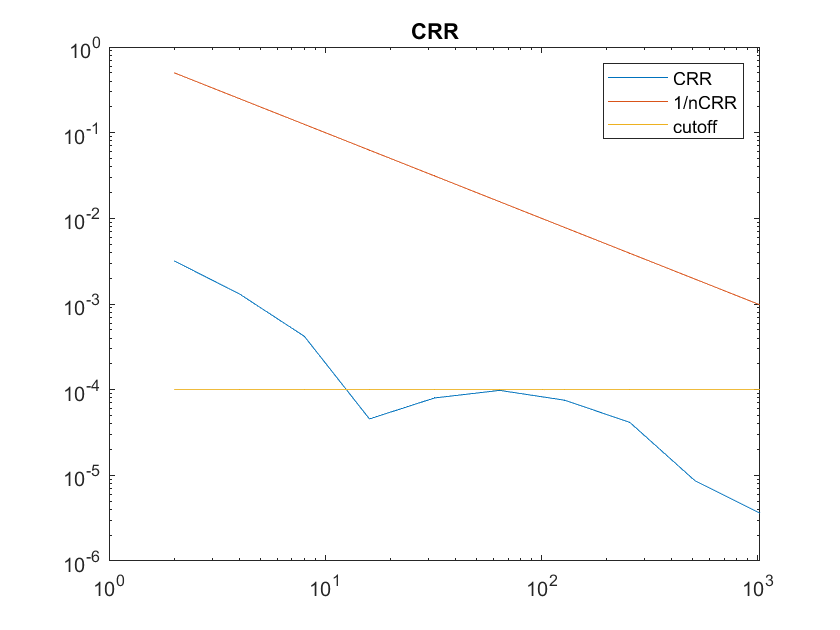
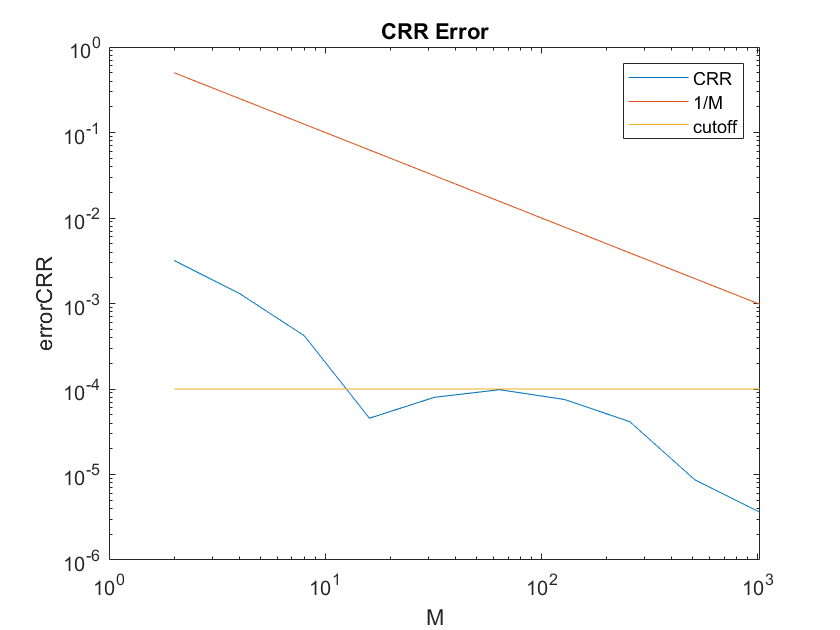
correzioni
gg

diff --git a/Assignment1/PlotErrorMC.m b/Assignment1/PlotErrorMC.m
@@ -32,7 +32,7 @@ end
 spread = 10^-4;
 
 % Plot the results of MC
-subplot(1,2,2)
+figure
 loglog(M,stdEstim)
 title('MC Error')
 xlabel('M'); ylabel('errorMC')

diff --git a/Assignment1/PlotErrorCRR.m b/Assignment1/PlotErrorCRR.m
@@ -37,7 +37,6 @@ spread = 10^-4;
 
 % Plot the results of CRR
 figure
-subplot(1,2,1)
 loglog(M,errorCRR)
 title('CRR Error')
 xlabel('M'); ylabel('errorCRR')
